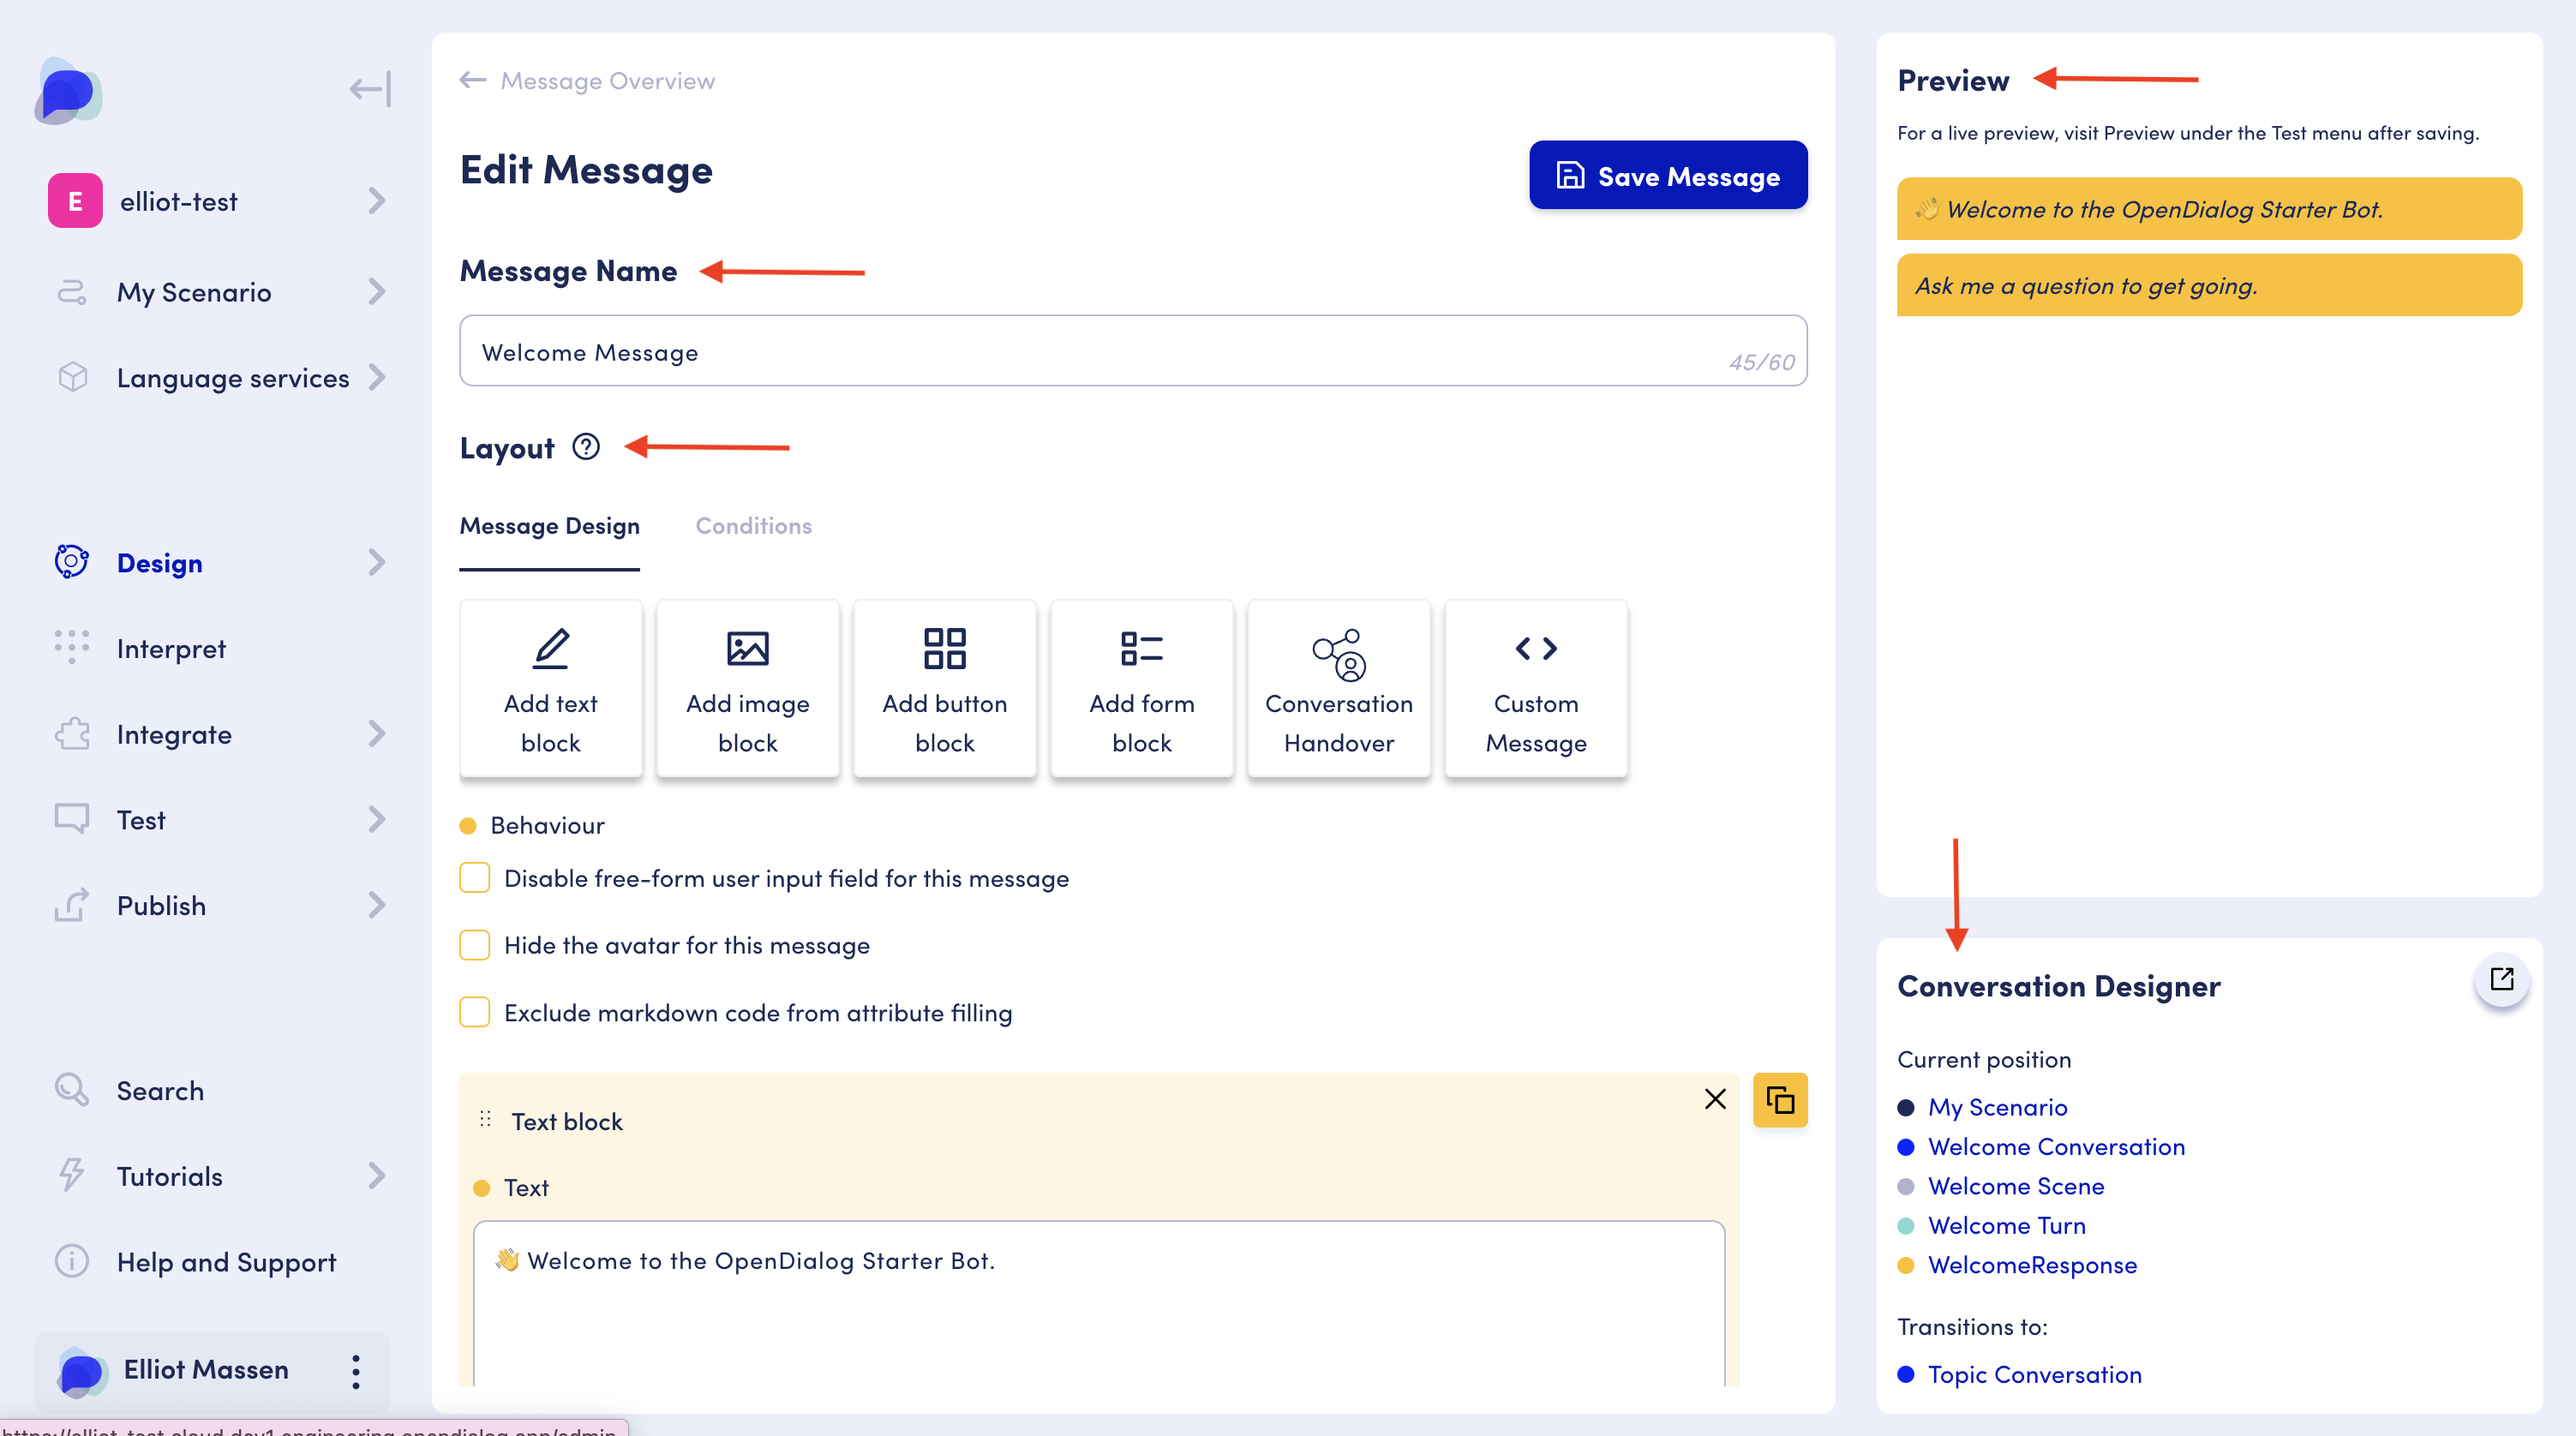
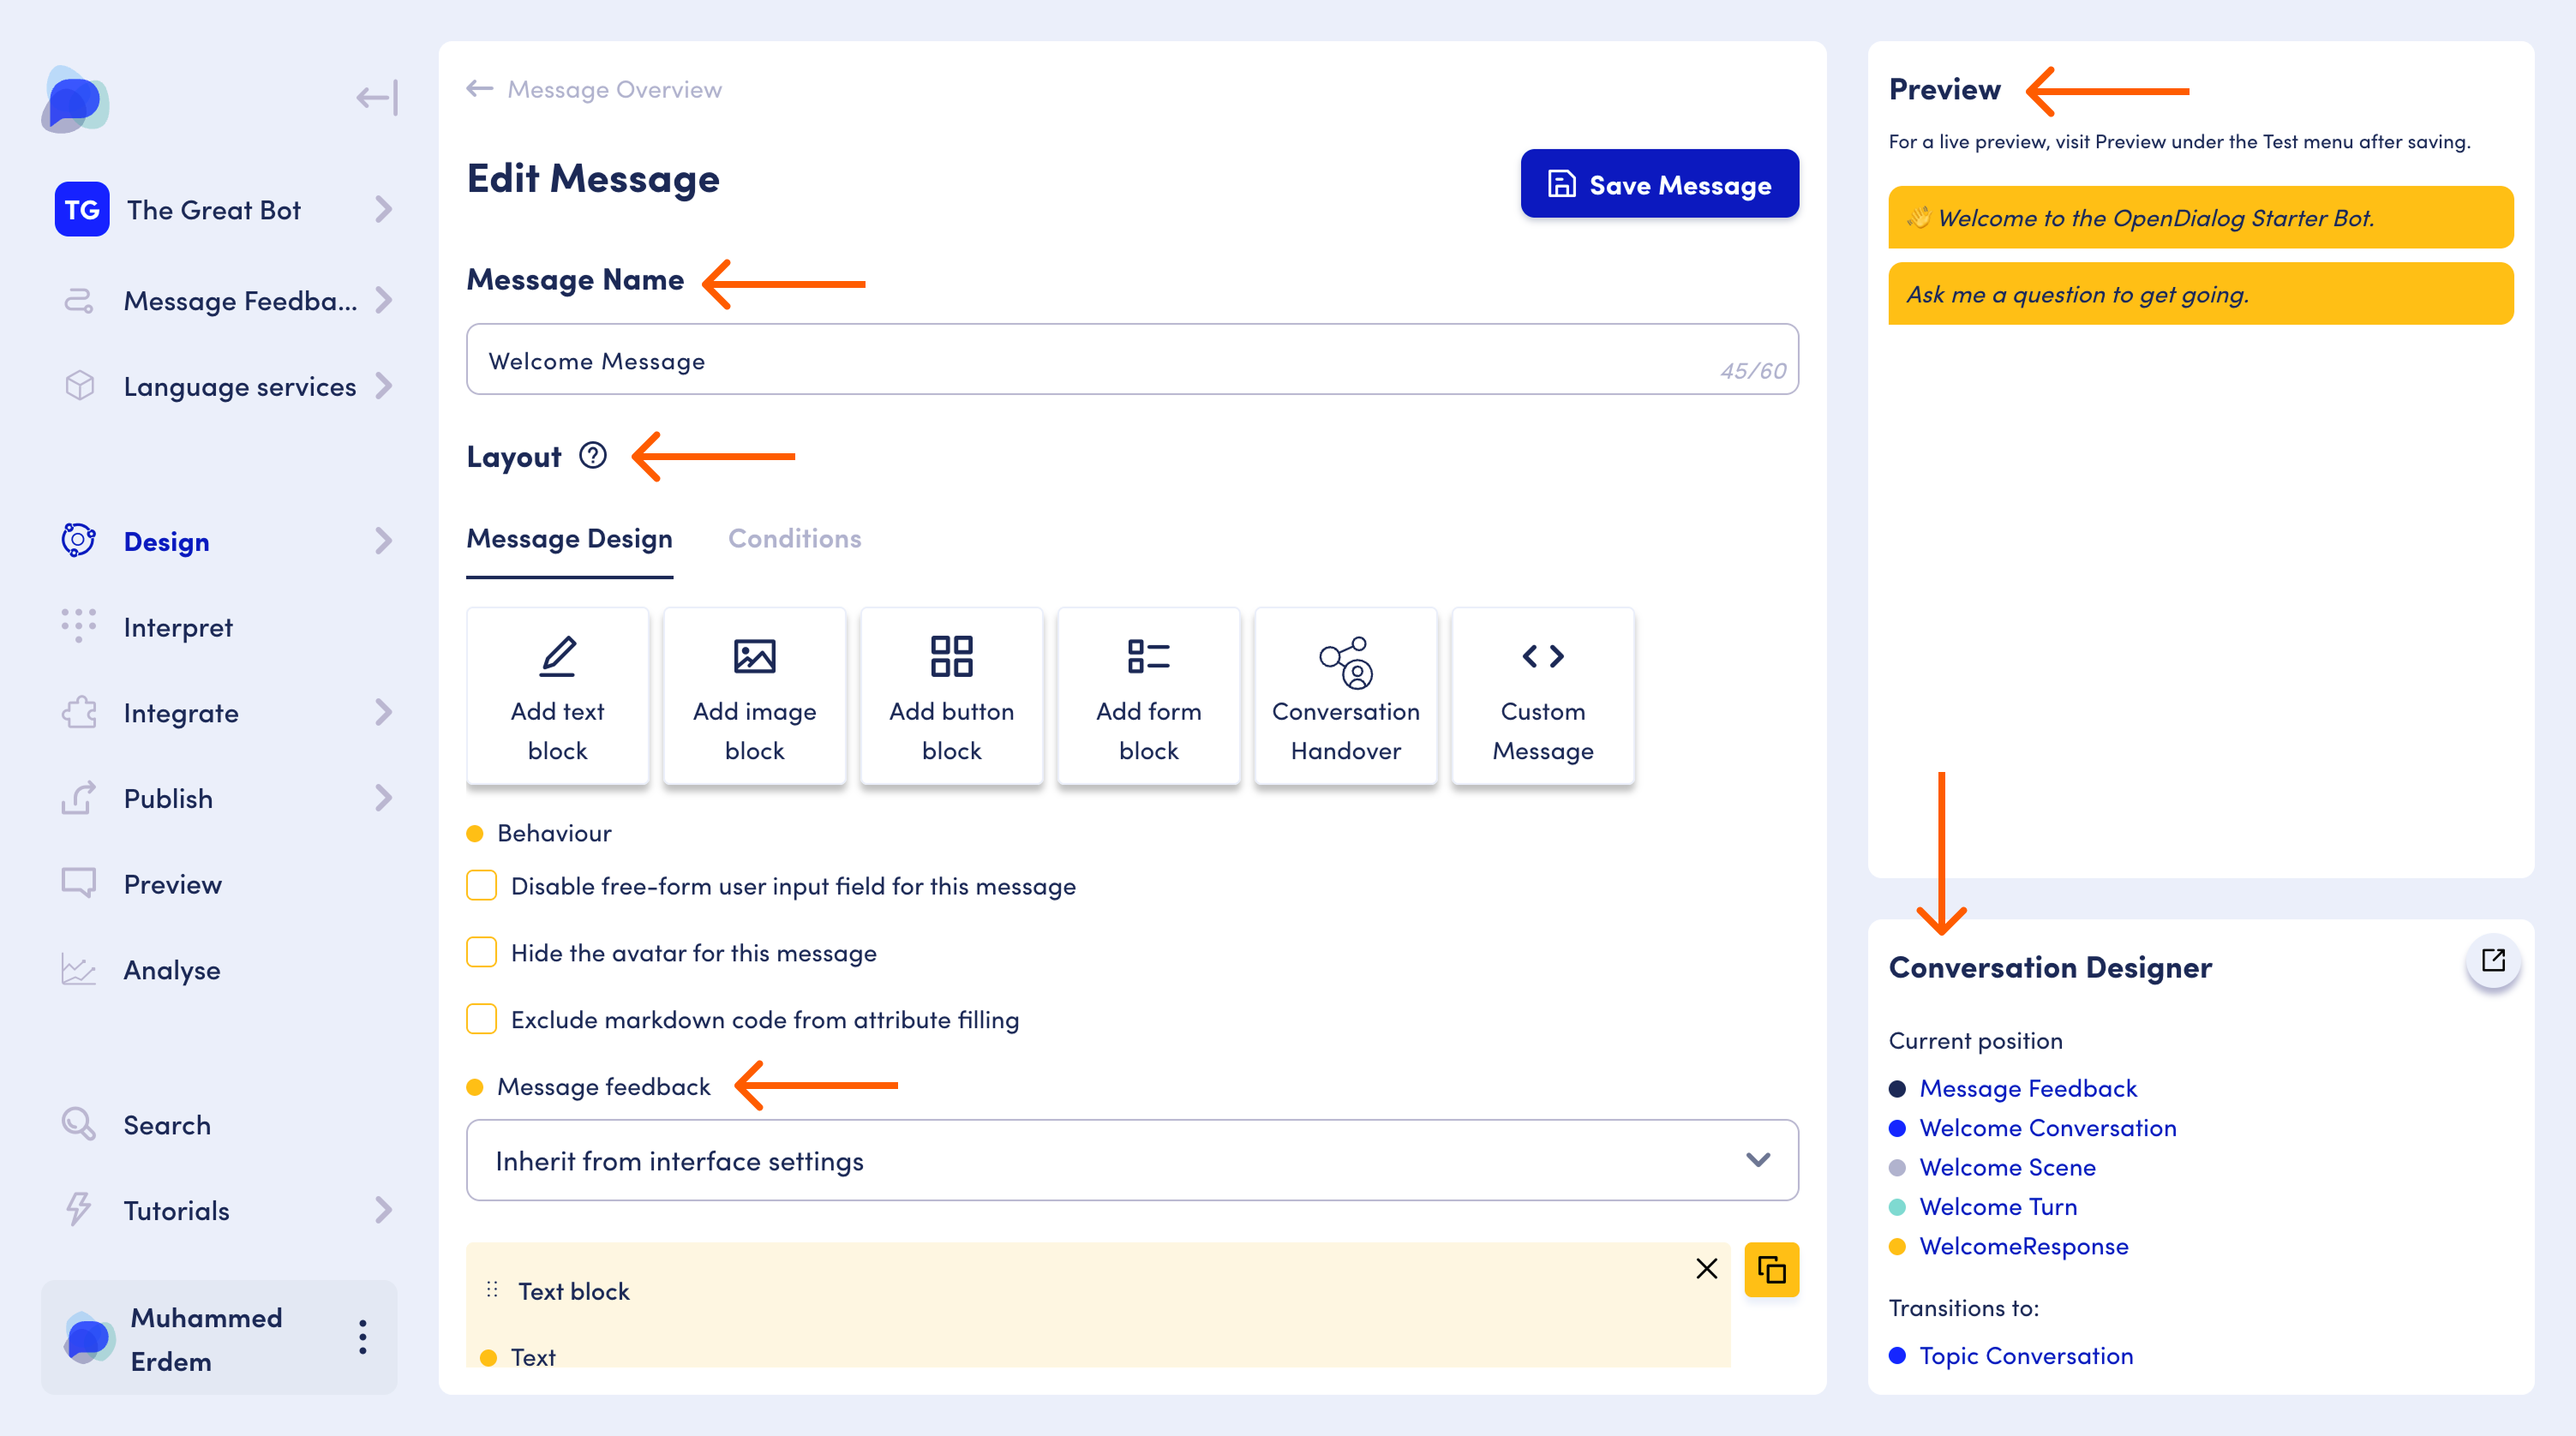
fix: screenshot and wording updates

diff --git a/opendialog-platform/conversation-designer/message-design/message-feedback.md b/opendialog-platform/conversation-designer/message-design/message-feedback.md
@@ -1,30 +1,41 @@
 ---
-+description: Let end users rate bot messages with thumbs up/down in webchat.
-+---
-+
-+# Message feedback
-+
-+Message feedback lets end users rate bot messages in webchat with a simple **thumbs up** or **thumbs down**. This helps you understand which messages are helpful and where users are struggling, so you can iterate on your message content and conversation flow.
-+
-+## Enable message feedback
-+
-+Message feedback is controlled in two places:
-+
-+1. **Interface Settings (global default)**\n   In [Webchat Interface Settings](../webchat-interface-design/webchat-interface-settings.md), enable **Message feedback** to turn it on by default for your webchat experience.
-+2. **Message Editor (per-message override)**\n   In the [Message editor](message-editor.md), set **Message feedback** to one of:\n   - **Inherit**: use the interface setting (default)\n   - **Enable**: show thumbs for this message\n   - **Disable**: never show thumbs for this message
-+
-+## How it appears in webchat
-+
-+When message feedback is enabled, webchat can show thumbs for eligible bot messages. After a user submits feedback, webchat will typically disable the controls to prevent re-submission.
-+
-+## Custom messages (XML)
-+
-+If you are using custom message XML, you can control feedback using the `enable_feedback` attribute:
-+
-+- `enable_feedback="true"`: enable feedback for this message
-+- `enable_feedback="false"`: disable feedback for this message
-+- Omit the attribute: inherit the interface setting
-+
-+## Related pages
-+
-+- [Message editor](message-editor.md)\n- [Webchat Interface Settings](../webchat-interface-design/webchat-interface-settings.md)\n- [Chat API](../../../developing-with-opendialog/webchat/webchat-api.md)
+description: Let end users rate bot messages with thumbs up/down in webchat.
+---
+
+# Message feedback
+
+Message feedback lets end users rate bot messages in webchat with a simple **thumbs up** or **thumbs down**. This helps you understand which messages are helpful and where users are struggling, so you can iterate on your message content and conversation flow.
+
+## Enable message feedback
+
+Message feedback is controlled in two places:
+
+1. **Interface Settings (global default)**  
+   In [Webchat Interface Settings](../webchat-interface-design/webchat-interface-settings.md), enable **Message feedback** to turn it on by default for your webchat experience.
+2. **Message Editor (per-message override)**  
+   In the [Message editor](message-editor.md), set **Message feedback** to one of:
+   - **Inherit**: use the interface setting (default)
+   - **Enable**: show thumbs for this message
+   - **Disable**: never show thumbs for this message
+
+<!-- SCREENSHOT: Message feedback setting (tri-state)
+     Location: Message editor > Behaviours (or equivalent section)
+     Purpose: Show where to configure inherit/enable/disable -->
+
+<figure><img src="../../../.gitbook/assets/PLACEHOLDER-message-feedback-message-editor.png" alt="Message feedback setting in the Message editor"><figcaption><p>Message feedback setting in the Message editor (inherit / enable / disable).</p></figcaption></figure>
+
+## How it appears in webchat
+
+When message feedback is enabled, webchat can show thumbs for eligible bot messages. After a user submits feedback, webchat will typically disable the controls to prevent re-submission.
+
+<!-- SCREENSHOT: Message feedback widget in webchat
+     Location: Webchat conversation view (bot message)
+     Purpose: Show how the thumbs up/down widget looks to end users -->
+
+<figure><img src="../../../.gitbook/assets/PLACEHOLDER-message-feedback-webchat-widget.png" alt="Message feedback widget in webchat"><figcaption><p>Message feedback widget (thumbs up/down) shown under an eligible bot message in webchat.</p></figcaption></figure>
+
+## Related pages
+
+- [Message editor](message-editor.md)
+- [Webchat Interface Settings](../webchat-interface-design/webchat-interface-settings.md)
+- [Chat API](../../../developing-with-opendialog/webchat/webchat-api.md)

diff --git a/opendialog-platform/conversation-designer/message-design/message-editor.md b/opendialog-platform/conversation-designer/message-design/message-editor.md
@@ -96,7 +96,7 @@ The following options are available in the Edit Message screen:
 * **Behaviours:**
   * "Disable free-form user input field for this message" will ensure that the user is not able to send free-form text messages in response to this message. This is usually best used alongside a message block that the user can interact with, such as a button message or form message.
   * "Hide the avatar for this message" will ensure that Webchat doesn't display the avatar alongside the message.
-  * **Message feedback** lets you control whether end users can rate this message in webchat (thumbs up/down):\n    \n    - **Inherit**: use the interface setting (default)\n    - **Enable**: show thumbs for this message\n    - **Disable**: never show thumbs for this message\n    \n    When message feedback is enabled, the preview can show the feedback widget for supported messages.
+  * **Message feedback** lets you control whether end users can rate this message in webchat (thumbs up/down):\n    \n    - **Inherit**: use the interface setting (default)\n    - **Enable**: show thumbs for this message\n    - **Disable**: never show thumbs for this message\n    \n    When message feedback is enabled, the preview can show the feedback widget for supported messages. Learn more in [Message feedback](message-feedback.md).
   * "Exclude markdown code from attribute filling" will ensure that any curly-braces `{}`included inside [markdown code blocks](http://commonmark.org/help/) (single or triple back ticks) will not be used in attribute filling. By default OpenDialog will presume any curly braces are being used as [attribute syntax](using-attributes-in-messages.md) and attempt to fill it's value, this behaviour excludes markdown code from being filled. This behaviour is useful if you need to use curly braces for things such as code snippets within your messages.
 
 <figure><img src="../../../.gitbook/assets/Screenshot 2025-03-06 at 11.09.33 (1).png" alt=""><figcaption><p>Edit Message screen</p></figcaption></figure>
@@ -106,14 +106,6 @@ The following options are available in the Edit Message screen:
 Custom messages let you define message content using XML.
 
 This is how you access message-type-specific attributes.
-
-### Message feedback attribute (Custom Messages)
-
-If you are using a custom message XML editor, you can control message feedback with the `enable_feedback` attribute:
-
-- `enable_feedback="true"`: enable feedback for this message
-- `enable_feedback="false"`: disable feedback for this message
-- Omit the attribute: inherit the interface setting
 
 ### Expandable Message Attributes (Custom Messages)
 

diff --git a/monitoring-your-application.md b/monitoring-your-application.md
@@ -106,7 +106,7 @@ The message log table is an essential tool for reviewing and understanding the f
 
 There is an export button in the top left hand side of the table. Clicking this button will export data with the current filters applied into a CSV file for you to download.
 
-If message feedback is enabled for your workspace, you may also see an additional export button next to this one to download **message feedback results** as a CSV file.
+If message feedback is enabled for your workspace, you may also see an additional export button next to this one to download **message feedback results** as a CSV file. Learn more in [Message feedback](opendialog-platform/conversation-designer/message-design/message-feedback.md).
 
 By examining this data, you can evaluate the performance of your application, identify patterns, and uncover potential areas for improvement.
 

diff --git a/opendialog-platform/conversation-designer/webchat-interface-design/webchat-interface-settings.md b/opendialog-platform/conversation-designer/webchat-interface-design/webchat-interface-settings.md
@@ -29,7 +29,7 @@ Here you can configure some overall settings for the widget:
 **Messages** - Configure message behaviour in webchat, including:
 
 - Showing the time of the message underneath each message
-- **Enable message feedback** (thumbs up/down) so end users can rate bot messages. You can also override this per message in the [Message editor](../message-design/message-editor.md).
+- **Enable message feedback** (thumbs up/down) so end users can rate bot messages. You can also override this per message in the [Message editor](../message-design/message-editor.md). Learn more in [Message feedback](../message-design/message-feedback.md).
 
 **Typing Event** - Controls behavior when bot "typing" a response. \
 \- _Timing_ configures the length of time (in milliseconds) that the typing indicator should be shown for each message.\
